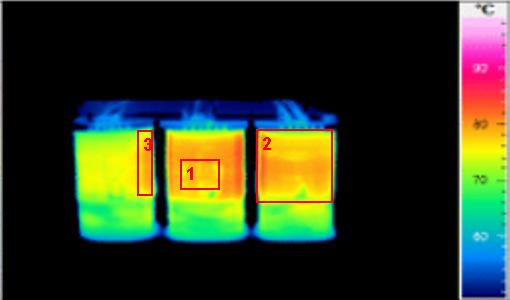
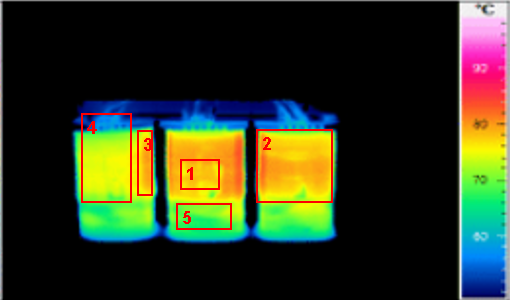
New boxes save in database

Changed region(s): [[0.1471, 0.36, 0.2647, 0.69], [0.3235, 0.66, 0.4706, 0.78]]

diff --git a/client/src/pages/InspectionDetailPage.jsx b/client/src/pages/InspectionDetailPage.jsx
@@ -1,6 +1,6 @@
 import React, { useState, useEffect, useRef } from 'react';
 import { useParams } from 'react-router-dom';
-import { getInspectionById, deleteThermalImage, deleteBaselineImage, getTransformerById, getAnomalyDetectionResult, triggerAnomalyDetection, updateInspection } from '../services/apiService';
+import { getInspectionById, deleteThermalImage, deleteBaselineImage, getTransformerById, getAnomalyDetectionResult, triggerAnomalyDetection, updateInspection, getAnnotations } from '../services/apiService';
 import ThermalImageUpload from '../components/ThermalImageUpload';
 import BaselineImageUploader from '../components/BaselineImageUploader';
 import { Card, Row, Col, Button, Spinner, Form } from 'react-bootstrap';
@@ -31,6 +31,7 @@ const InspectionDetailPage = () => {
     const [zoomModal, setZoomModal] = useState({ show: false, url: '', title: '' });
     const [isAnnotating, setIsAnnotating] = useState(false);
     const [refreshKey, setRefreshKey] = useState(0);
+    const [hasUserAnnotations, setHasUserAnnotations] = useState(false);
 
     const handleOpenZoomModal = (url, title) => setZoomModal({ show: true, url, title });
     const handleCloseZoomModal = () => setZoomModal({ show: false, url: '', title: '' });
@@ -67,6 +68,16 @@ const InspectionDetailPage = () => {
                 setBaselineImageName(currentBaselineName);
             }
             if (inspectionResponse.data.thermalImage) {
+
+                try {
+                    // Check if user annotations exist in the database
+                    const savedAnnotations = await getAnnotations(inspectionId);
+                    setHasUserAnnotations(savedAnnotations && savedAnnotations.length > 0);
+                } catch (annotationErr) {
+                    console.warn("Could not check for saved annotations:", annotationErr);
+                    setHasUserAnnotations(false);
+                }
+
                 try {
                     const resultResponse = await getAnomalyDetectionResult(inspectionId);
                     setAnomalyResult(resultResponse.data);
@@ -154,6 +165,14 @@ const InspectionDetailPage = () => {
     const baselineImageUrl = hasBaselineImage ? `${API_BASE_URL}/api/transformers/${transformer.id}/baseline-image/view?timestamp=${new Date().getTime()}` : '';
     const aiAnalyzedImageUrl = anomalyResult ? `${API_BASE_URL}/api/inspections/${inspectionId}/anomalies/image?t=${timestamp}` : thermalImageUrl;
     const userAnnotatedImageUrl = `${API_BASE_URL}/api/inspections/${inspectionId}/annotations/image?key=${refreshKey}`;
+    const displayImageUrl = hasUserAnnotations
+        ? userAnnotatedImageUrl // If user saved anything, show the user-annotated image.
+        : aiAnalyzedImageUrl; // Otherwise, show the AI-analyzed image.
+
+    // We don't need the refreshKey logic anymore since fetchData updates the state, triggering reload.
+    // If you still want the instant refresh: use refreshKey in the URL:
+    const finalDisplayImageUrl = `${displayImageUrl}&k=${refreshKey}`; // Append refreshKey for instant update after save
+
     const getStatusBadgeColor = (status) => {
         switch (status.toLowerCase()) {
             case 'completed': return 'bg-primary';
@@ -243,26 +262,28 @@ const InspectionDetailPage = () => {
                                     ) : hasThermalImage ? (
                                         isAnnotating ? (
                                             <ImageAnnotator
+                                                // ... props remain the same ...
                                                 inspectionId={inspectionId}
                                                 imageUrl={thermalImageUrl}
                                                 initialAnnotations={anomalyResult?.detectionJsonOutput}
                                                 onAnnotationsSaved={() => {
                                                     setIsAnnotating(false);
-                                                    setRefreshKey(prev => prev + 1);
+                                                    setRefreshKey(prev => prev + 1); // Triggers visual refresh
+                                                    fetchData(); // 💥 IMPORTANT: Re-fetch data to update 'hasUserAnnotations' status!
                                                 }}
                                                 onCancel={() => setIsAnnotating(false)}
                                             />
-                                        ) : (
-                                            <>
-                                                <div onClick={() => handleOpenZoomModal(refreshKey > 0 ? userAnnotatedImageUrl : aiAnalyzedImageUrl, 'Analyzed Image')} style={{ cursor: 'zoom-in' }}>
-                                                    <img src={refreshKey > 0 ? userAnnotatedImageUrl : aiAnalyzedImageUrl} alt="Annotated Thermal" style={{ maxWidth: '100%' }} key={refreshKey > 0 ? userAnnotatedImageUrl : aiAnalyzedImageUrl} />
+                                            ) : (
+                                                <>
+                                                {/* Use the calculated displayImageUrl */}
+                                                <div onClick={() => handleOpenZoomModal(displayImageUrl, 'Analyzed Image')} style={{ cursor: 'zoom-in' }}>
+                                                    <img src={displayImageUrl} alt="Annotated Thermal" style={{ maxWidth: '100%' }} key={displayImageUrl} />
                                                     <small className="text-muted mt-2 d-block">Click image to inspect (Zoom/Pan).</small>
                                                 </div>
                                                 {anomalyResult && (<Button variant="primary" onClick={() => setIsAnnotating(true)} className="mt-2"><i className="bi bi-pencil-square me-2"></i>Correct Annotations</Button>)}
-                                                {/* --- REMOVED 'View Original AI Detection' button from here --- */}
-                                            </>
-                                        )
-                                    ) : showThermalUploader ? (
+                                                </>
+                                            )
+                                        ) : showThermalUploader ? (
                                         <ThermalImageUpload inspectionId={inspection.id} onUploadSuccess={handleImageUploadSuccess} />
                                     ) : (
                                         <div style={{ minHeight: '200px', display: 'grid', placeContent: 'center' }}><p className="text-muted">No thermal image available.</p></div>

diff --git a/client/src/components/ImageAnnotator.jsx b/client/src/components/ImageAnnotator.jsx
@@ -150,7 +150,7 @@ const ImageAnnotator = ({ inspectionId, imageUrl, initialAnnotations, onAnnotati
 
             const finalAnnotationsToSave = annotations.map(ann => {
                 // Determine if the ID is a transient session ID (like "ai-0" or "user_new-1")
-                const isTransientId = typeof ann.id === 'string' && (ann.id.startsWith('ai-') || ann.id.startsWith('user_new-'));
+                const isTransientId = typeof ann.id === 'string' && (ann.id.startsWith('ai-') || ann.id.startsWith('user_new-') || ann.id.startsWith('new-'));
 
                 // Create a mutable copy
                 const finalAnn = { ...ann, userId: userId };
@@ -174,7 +174,7 @@ const ImageAnnotator = ({ inspectionId, imageUrl, initialAnnotations, onAnnotati
                 // Since loggableChanges are DTOs that will be logged, they don't map directly to the
                 // persistent Annotation entity ID. The only way to stop this is to ensure any
                 // annotation sent in loggableChanges also has its id set to null if it's transient.
-                if (typeof finalLog.id === 'string' && (finalLog.id.startsWith('ai-') || finalLog.id.startsWith('user_new-'))) {
+                if (typeof finalLog.id === 'string' && (finalLog.id.startsWith('ai-') || finalLog.id.startsWith('user_new-') || finalLog.id.startsWith('new-'))) {
                      finalLog.id = null;
                 }
                 return finalLog;
